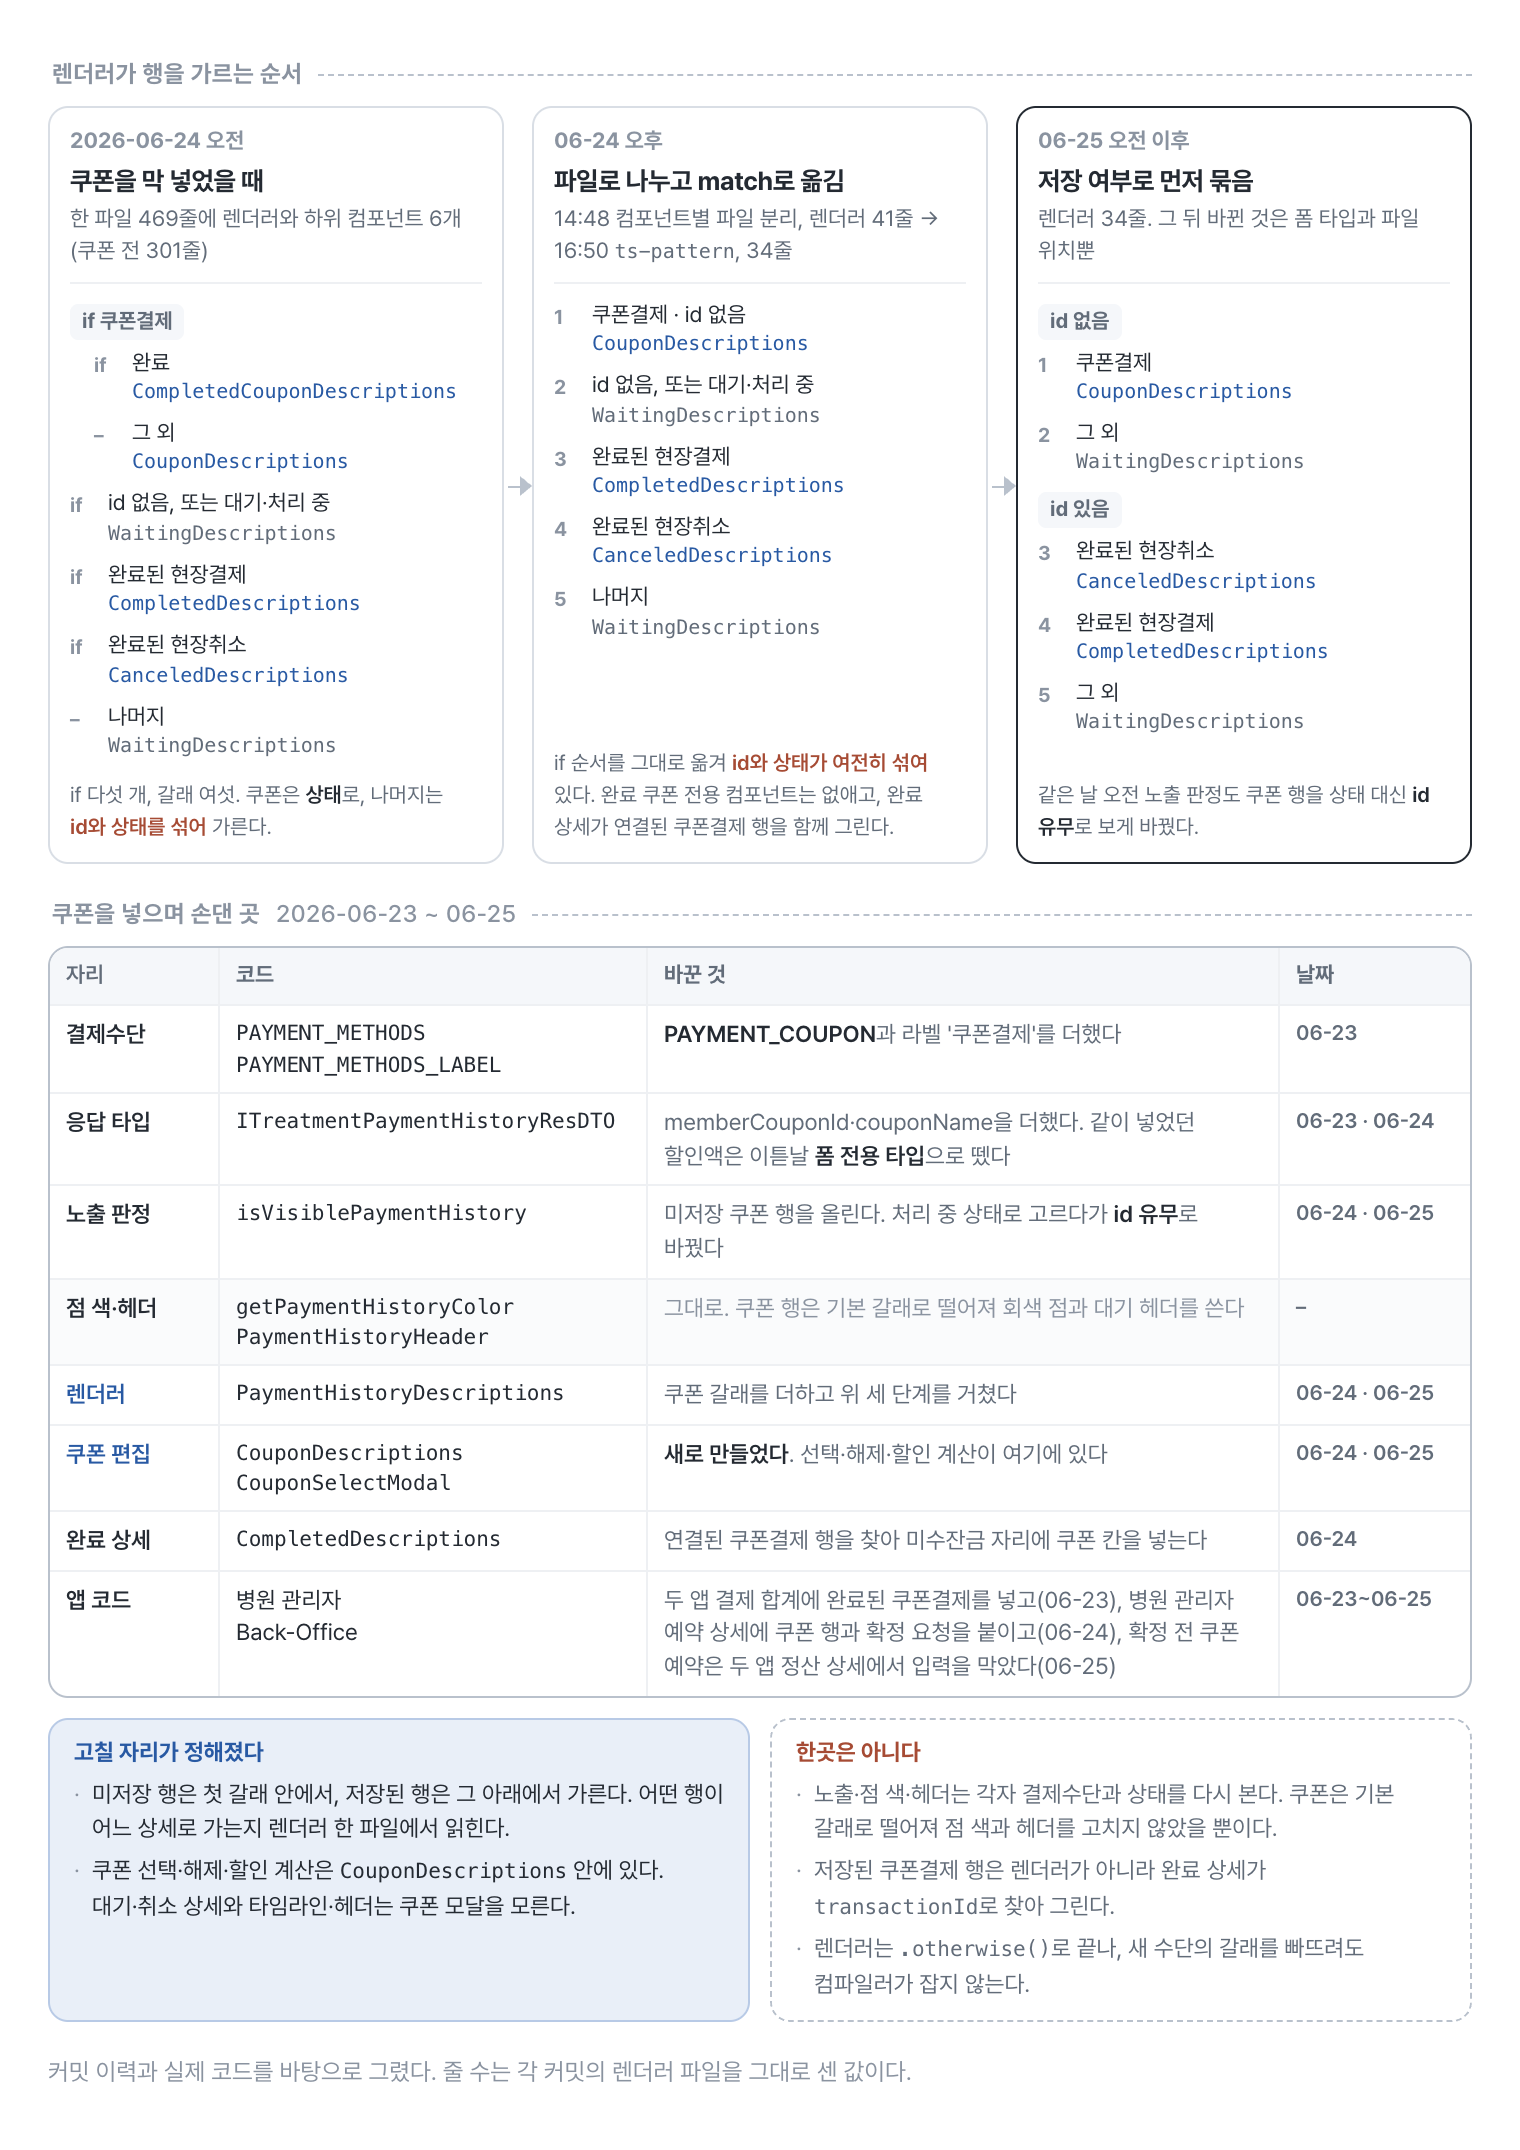
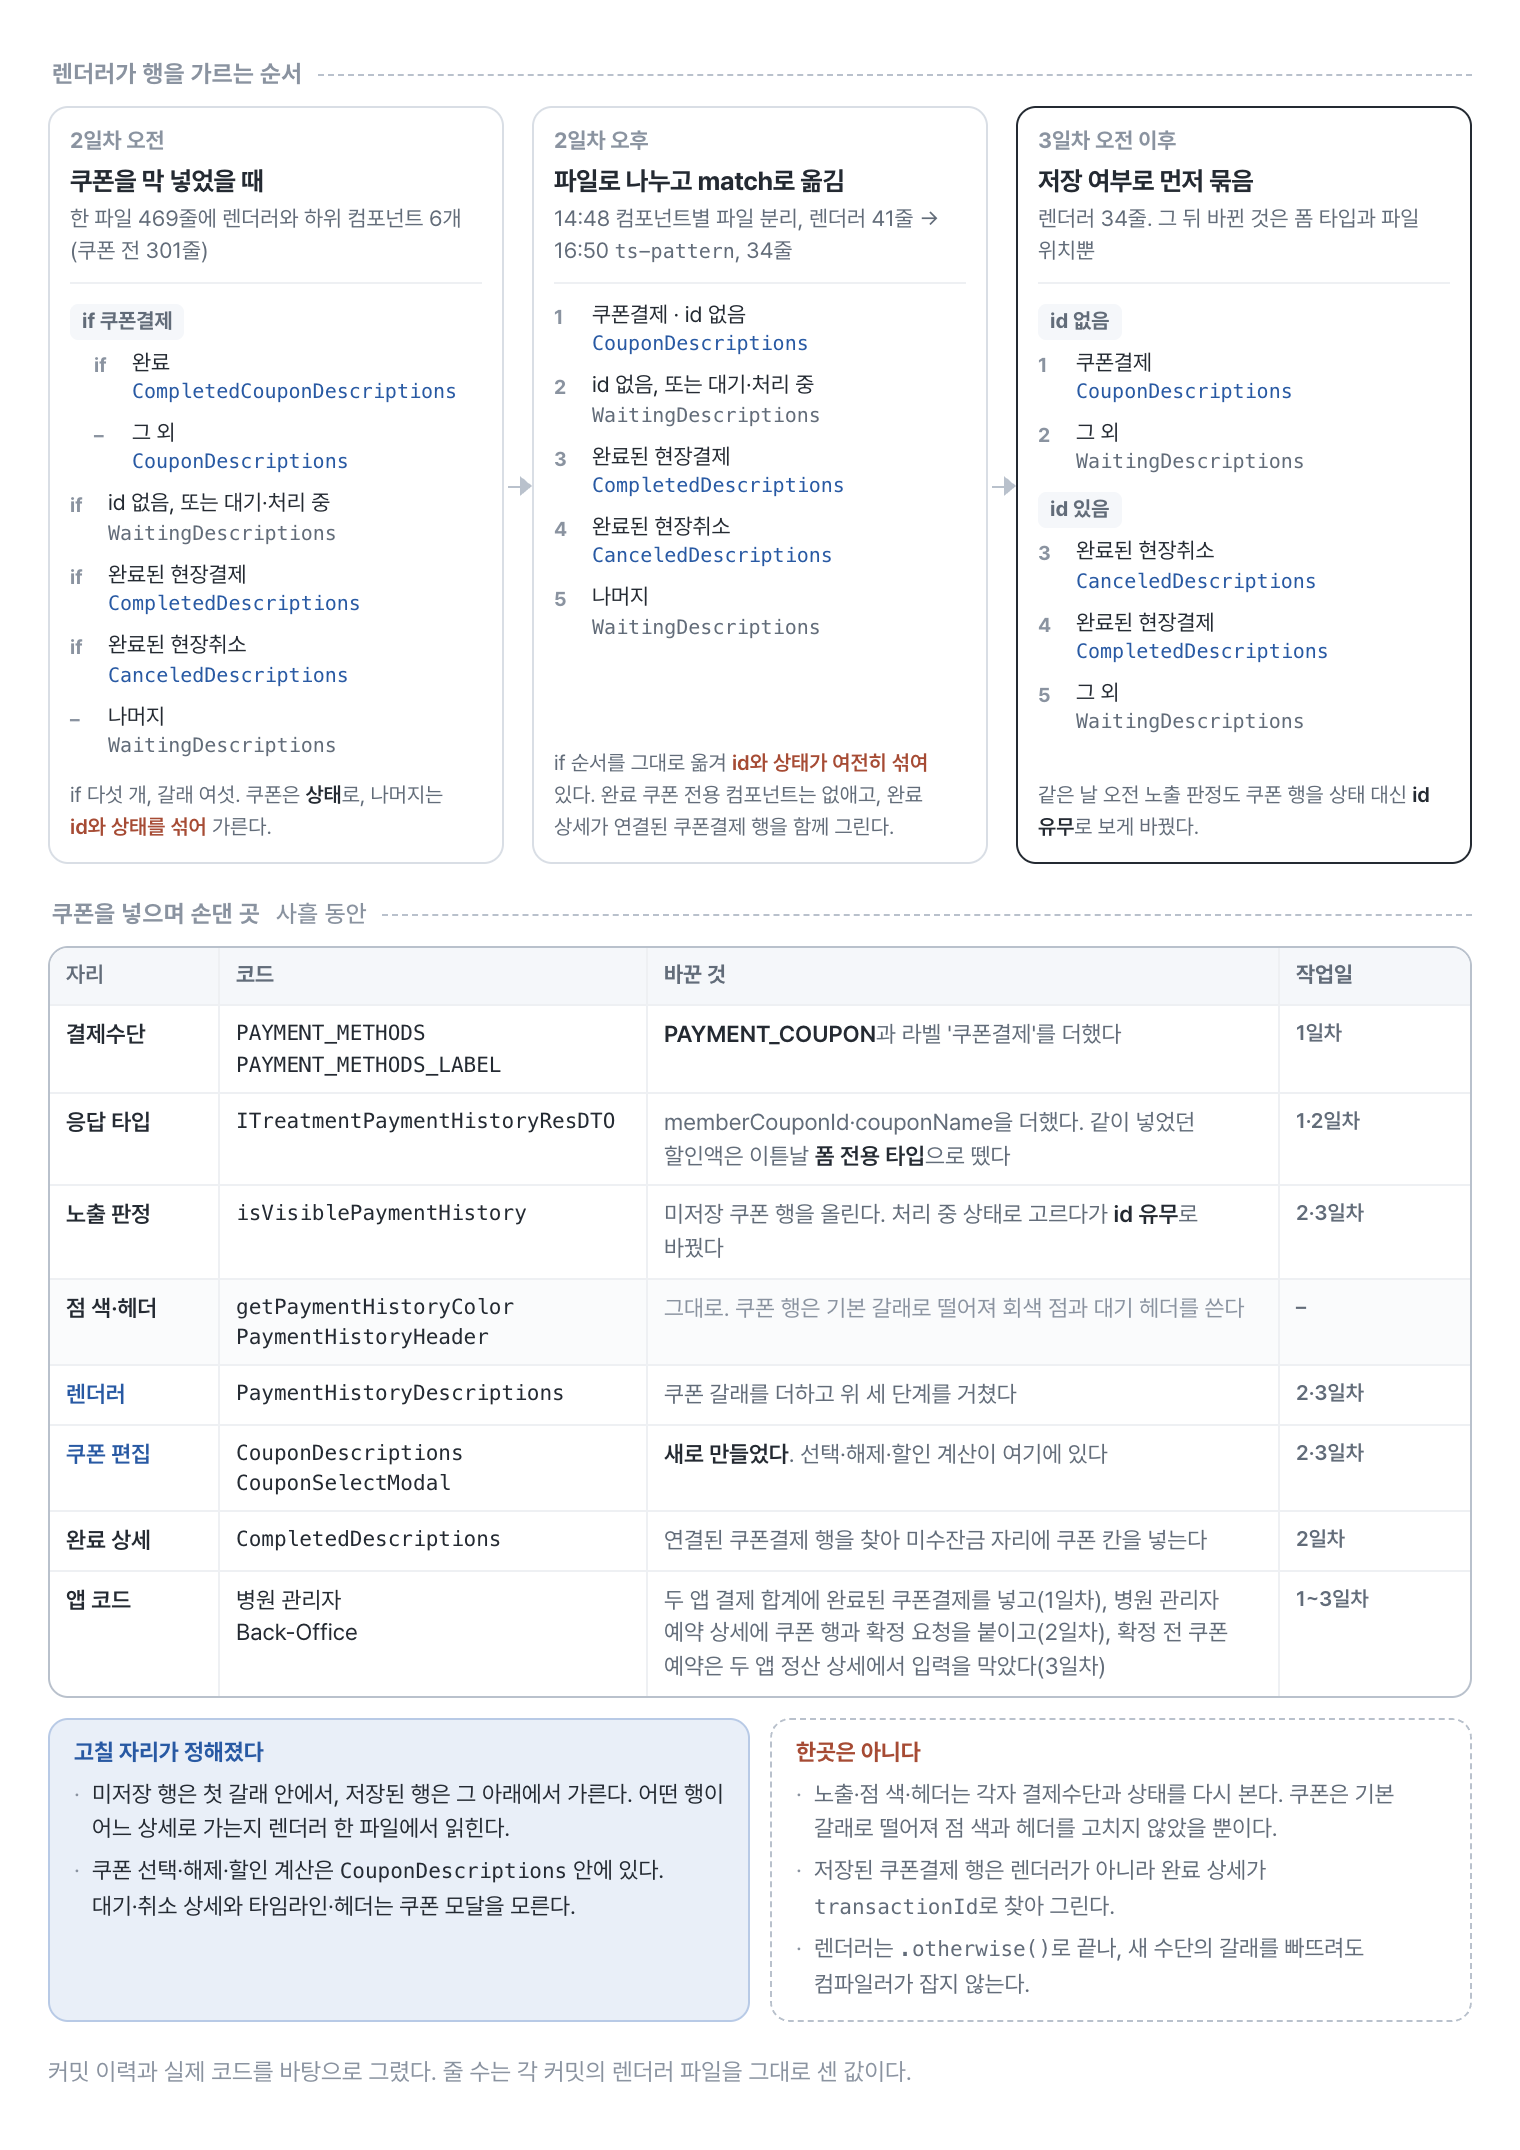
docs: 결제 내역 분기 그림의 날짜를 작업일 순서로 바꾸고 다시 렌더한다

diff --git a/blog/assets/figures/payment-history/src/04-branch-history.html b/blog/assets/figures/payment-history/src/04-branch-history.html
@@ -59,7 +59,7 @@
 <div class="zone">렌더러가 행을 가르는 순서</div>
 <div class="stages">
   <div class="st">
-    <div class="st-d">2026-06-24 오전</div>
+    <div class="st-d">2일차 오전</div>
     <div class="st-t">쿠폰을 막 넣었을 때</div>
     <p class="st-s">한 파일 469줄에 렌더러와 하위 컴포넌트 6개 (쿠폰 전 301줄)</p>
     <div class="br">
@@ -75,7 +75,7 @@
   </div>
   <div class="arr"></div>
   <div class="st">
-    <div class="st-d">06-24 오후</div>
+    <div class="st-d">2일차 오후</div>
     <div class="st-t">파일로 나누고 match로 옮김</div>
     <p class="st-s">14:48 컴포넌트별 파일 분리, 렌더러 41줄 → 16:50 <code>ts-pattern</code>, 34줄</p>
     <div class="br">
@@ -89,7 +89,7 @@
   </div>
   <div class="arr"></div>
   <div class="st now">
-    <div class="st-d">06-25 오전 이후</div>
+    <div class="st-d">3일차 오전 이후</div>
     <div class="st-t">저장 여부로 먼저 묶음</div>
     <p class="st-s">렌더러 34줄. 그 뒤 바뀐 것은 폼 타입과 파일 위치뿐</p>
     <div class="br">
@@ -105,20 +105,20 @@
   </div>
 </div>
 
-<div class="zone" style="margin-top:16px">쿠폰을 넣으며 손댄 곳 <span class="nw" style="font-weight:500">2026-06-23 ~ 06-25</span></div>
+<div class="zone" style="margin-top:16px">쿠폰을 넣으며 손댄 곳 <span class="nw" style="font-weight:500">사흘 동안</span></div>
 <div class="tbl">
-  <div class="tr th"><div>자리</div><div>코드</div><div>바꾼 것</div><div>날짜</div></div>
+  <div class="tr th"><div>자리</div><div>코드</div><div>바꾼 것</div><div>작업일</div></div>
   <div class="tr">
     <div>결제수단</div><div class="code">PAYMENT_METHODS<br>PAYMENT_METHODS_LABEL</div>
-    <div class="what"><b>PAYMENT_COUPON</b>과 라벨 '쿠폰결제'를 더했다</div><div class="dt">06-23</div>
+    <div class="what"><b>PAYMENT_COUPON</b>과 라벨 '쿠폰결제'를 더했다</div><div class="dt">1일차</div>
   </div>
   <div class="tr">
     <div>응답 타입</div><div class="code">ITreatmentPaymentHistoryResDTO</div>
-    <div class="what">memberCouponId·couponName을 더했다. 같이 넣었던 할인액은 이튿날 <b>폼 전용 타입</b>으로 뗐다</div><div class="dt">06-23 · 06-24</div>
+    <div class="what">memberCouponId·couponName을 더했다. 같이 넣었던 할인액은 이튿날 <b>폼 전용 타입</b>으로 뗐다</div><div class="dt">1·2일차</div>
   </div>
   <div class="tr">
     <div>노출 판정</div><div class="code">isVisiblePaymentHistory</div>
-    <div class="what">미저장 쿠폰 행을 올린다. 처리 중 상태로 고르다가 <b>id 유무</b>로 바꿨다</div><div class="dt">06-24 · 06-25</div>
+    <div class="what">미저장 쿠폰 행을 올린다. 처리 중 상태로 고르다가 <b>id 유무</b>로 바꿨다</div><div class="dt">2·3일차</div>
   </div>
   <div class="tr keep">
     <div>점 색·헤더</div><div class="code">getPaymentHistoryColor<br>PaymentHistoryHeader</div>
@@ -126,19 +126,19 @@
   </div>
   <div class="tr focus">
     <div>렌더러</div><div class="code">PaymentHistoryDescriptions</div>
-    <div class="what">쿠폰 갈래를 더하고 위 세 단계를 거쳤다</div><div class="dt">06-24 · 06-25</div>
+    <div class="what">쿠폰 갈래를 더하고 위 세 단계를 거쳤다</div><div class="dt">2·3일차</div>
   </div>
   <div class="tr focus">
     <div>쿠폰 편집</div><div class="code">CouponDescriptions<br>CouponSelectModal</div>
-    <div class="what"><b>새로 만들었다</b>. 선택·해제·할인 계산이 여기에 있다</div><div class="dt">06-24 · 06-25</div>
+    <div class="what"><b>새로 만들었다</b>. 선택·해제·할인 계산이 여기에 있다</div><div class="dt">2·3일차</div>
   </div>
   <div class="tr">
     <div>완료 상세</div><div class="code">CompletedDescriptions</div>
-    <div class="what">연결된 쿠폰결제 행을 찾아 미수잔금 자리에 쿠폰 칸을 넣는다</div><div class="dt">06-24</div>
+    <div class="what">연결된 쿠폰결제 행을 찾아 미수잔금 자리에 쿠폰 칸을 넣는다</div><div class="dt">2일차</div>
   </div>
   <div class="tr">
     <div>앱 코드</div><div>병원 관리자<br>Back-Office</div>
-    <div class="what">두 앱 결제 합계에 완료된 쿠폰결제를 넣고(06-23), 병원 관리자 예약 상세에 쿠폰 행과 확정 요청을 붙이고(06-24), 확정 전 쿠폰 예약은 두 앱 정산 상세에서 입력을 막았다(06-25)</div><div class="dt">06-23~06-25</div>
+    <div class="what">두 앱 결제 합계에 완료된 쿠폰결제를 넣고(1일차), 병원 관리자 예약 상세에 쿠폰 행과 확정 요청을 붙이고(2일차), 확정 전 쿠폰 예약은 두 앱 정산 상세에서 입력을 막았다(3일차)</div><div class="dt">1~3일차</div>
   </div>
 </div>
 
